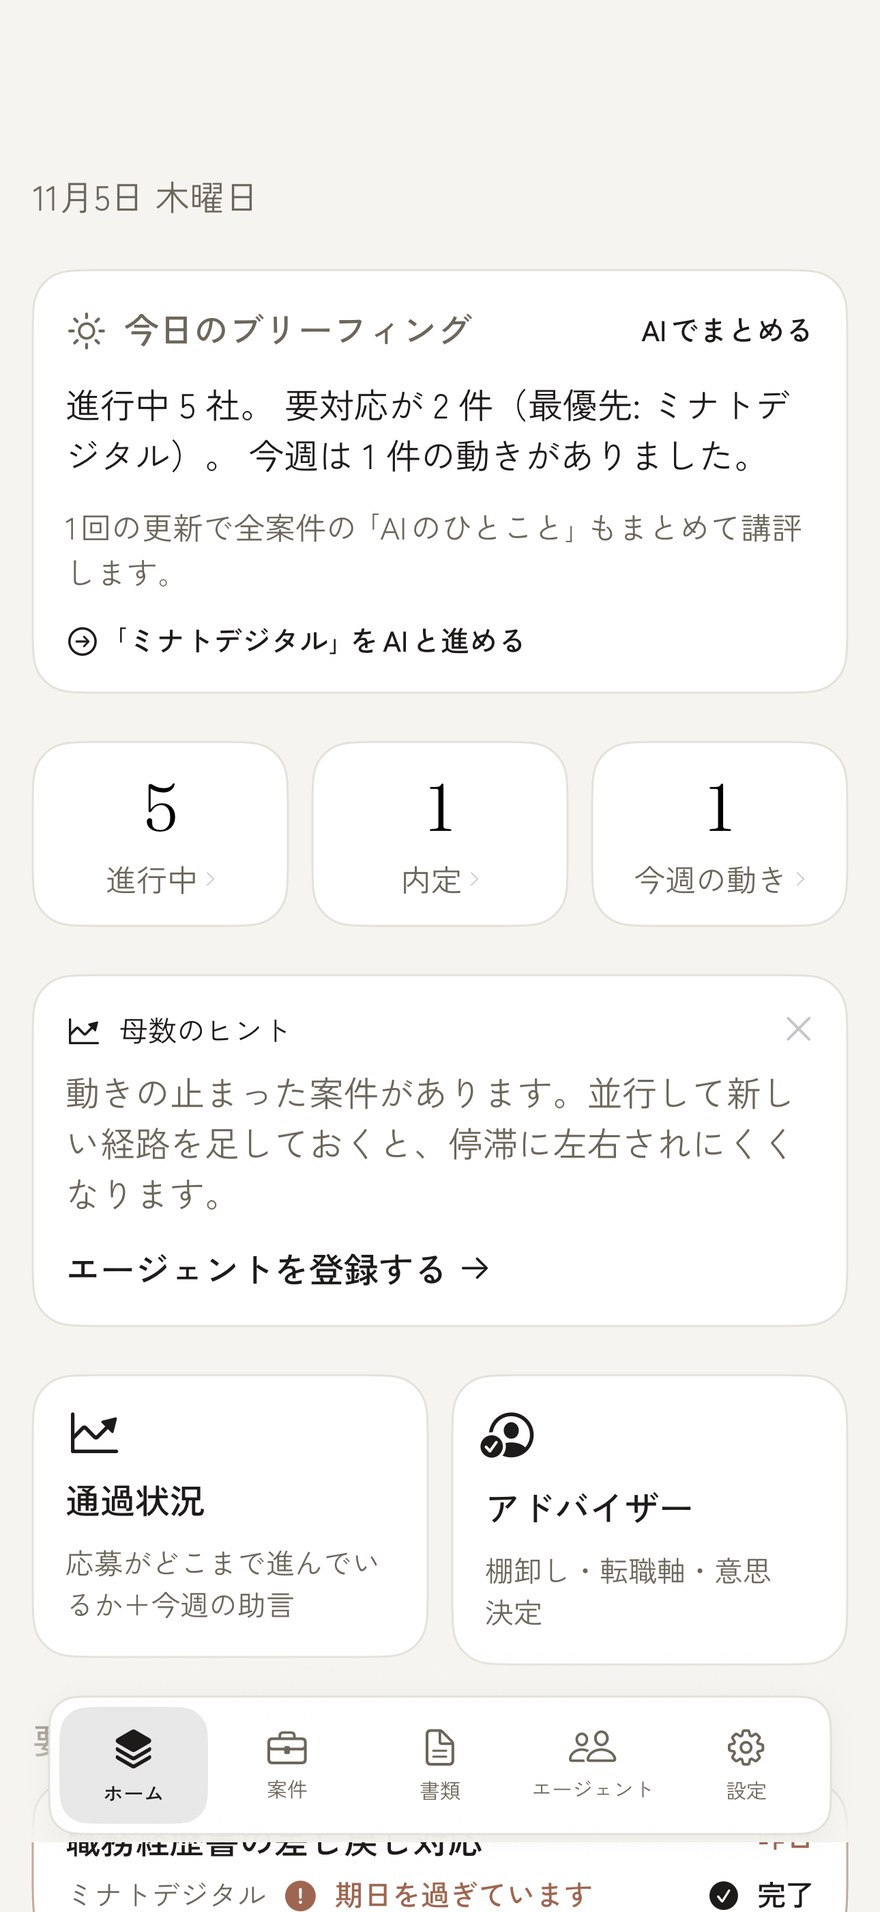
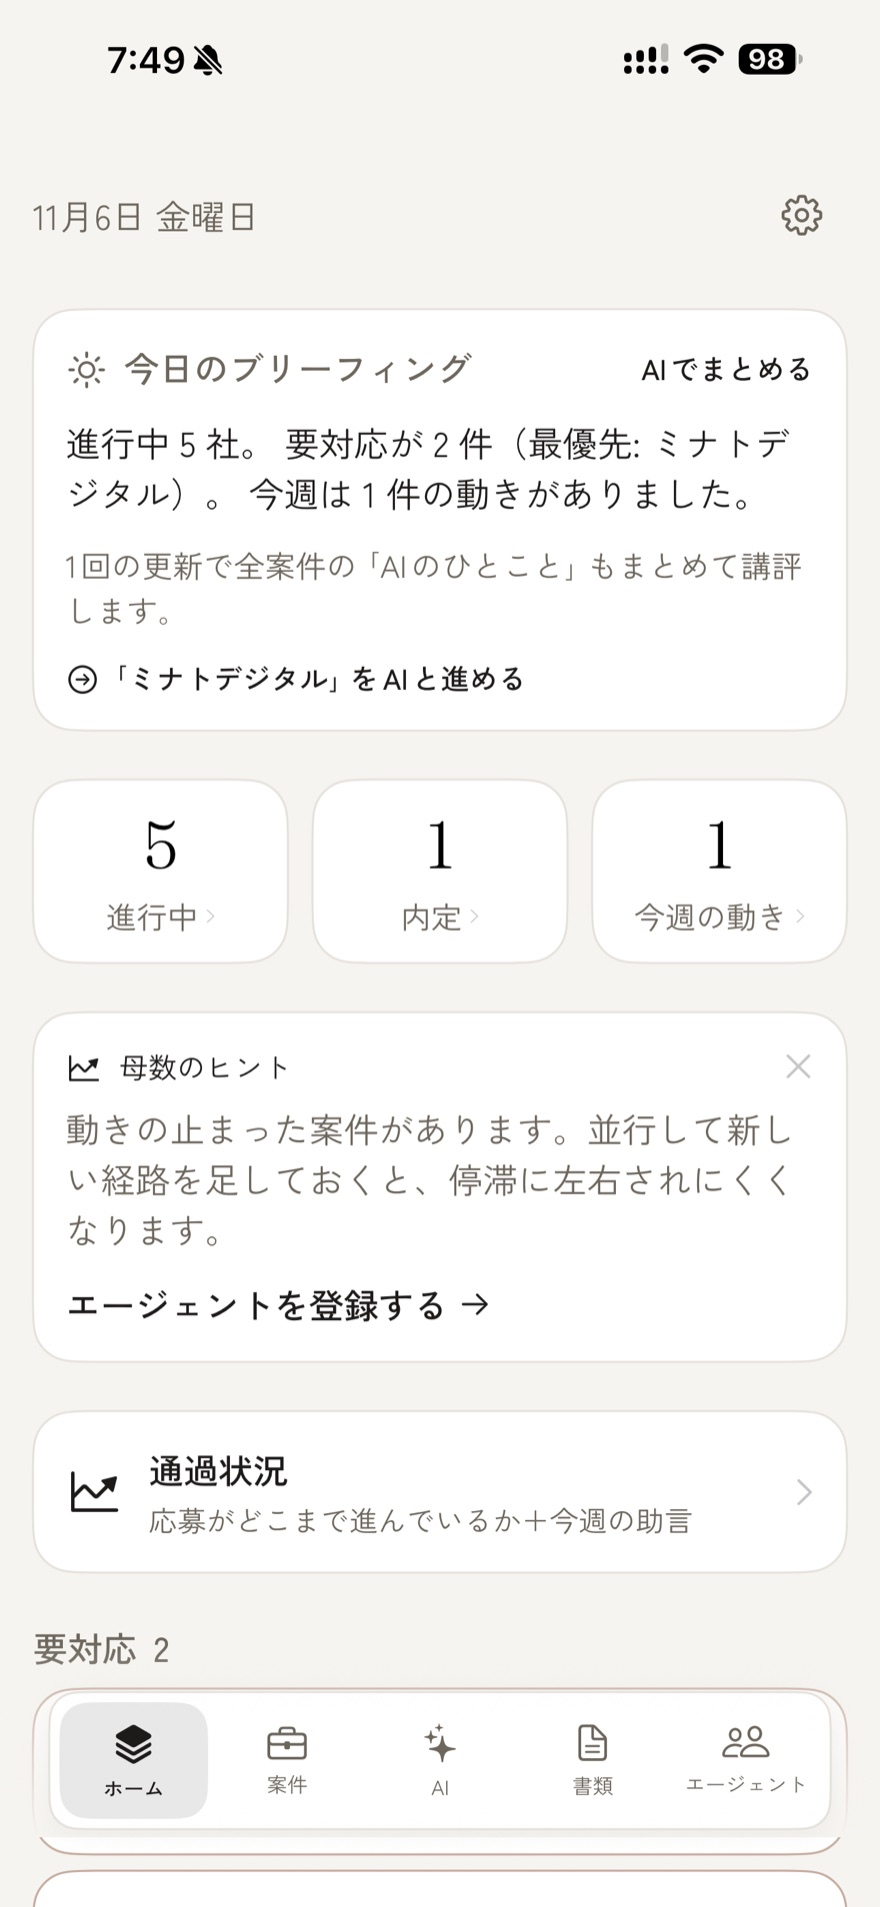
Glidwell: 画面を 1.7.1（AI タブ）に差し替え・AI の説明を段階別の案内に更新

diff --git a/glidwell.html b/glidwell.html
@@ -93,23 +93,23 @@
       <div class="carousel">
         <div class="carousel-track">
           <div class="cslide">
-            <figure class="cslide-solo"><img src="./assets/screens/glidwell-v2-home.jpg" alt="Glidwell ホーム" width="880" height="1912" loading="lazy" decoding="async"></figure>
+            <figure class="cslide-solo"><img src="./assets/screens/glidwell-v2-home.jpg" alt="Glidwell ホーム" width="880" height="1907" loading="lazy" decoding="async"></figure>
             <div class="cslide-title">ホーム</div>
           </div>
           <div class="cslide">
-            <figure class="cslide-solo"><img src="./assets/screens/glidwell-v2-list.jpg" alt="Glidwell 案件一覧" width="880" height="1912" loading="lazy" decoding="async"></figure>
+            <figure class="cslide-solo"><img src="./assets/screens/glidwell-v2-list.jpg" alt="Glidwell 案件一覧" width="880" height="1907" loading="lazy" decoding="async"></figure>
             <div class="cslide-title">案件一覧</div>
           </div>
           <div class="cslide">
-            <figure class="cslide-solo"><img src="./assets/screens/glidwell-v2-detail.jpg" alt="Glidwell 案件詳細" width="880" height="1912" loading="lazy" decoding="async"></figure>
+            <figure class="cslide-solo"><img src="./assets/screens/glidwell-v2-detail.jpg" alt="Glidwell 案件詳細" width="880" height="1907" loading="lazy" decoding="async"></figure>
             <div class="cslide-title">案件詳細</div>
           </div>
           <div class="cslide">
-            <figure class="cslide-solo"><img src="./assets/screens/glidwell-v2-documents.jpg" alt="Glidwell 書類" width="880" height="1912" loading="lazy" decoding="async"></figure>
+            <figure class="cslide-solo"><img src="./assets/screens/glidwell-v2-documents.jpg" alt="Glidwell 書類" width="880" height="1907" loading="lazy" decoding="async"></figure>
             <div class="cslide-title">書類</div>
           </div>
           <div class="cslide">
-            <figure class="cslide-solo"><img src="./assets/screens/glidwell-v2-agents.jpg" alt="Glidwell エージェント" width="880" height="1912" loading="lazy" decoding="async"></figure>
+            <figure class="cslide-solo"><img src="./assets/screens/glidwell-v2-agents.jpg" alt="Glidwell エージェント" width="880" height="1907" loading="lazy" decoding="async"></figure>
             <div class="cslide-title">エージェント</div>
           </div>
           <div class="cslide">
@@ -117,8 +117,8 @@
             <div class="cslide-title">AI 模擬面接</div>
           </div>
           <div class="cslide">
-            <figure class="cslide-solo"><img src="./assets/screens/glidwell-v2-ai.jpg" alt="Glidwell AI アシスタント" width="880" height="1912" loading="lazy" decoding="async"></figure>
-            <div class="cslide-title">AI アシスタント</div>
+            <figure class="cslide-solo"><img src="./assets/screens/glidwell-v2-ai.jpg" alt="Glidwell AI タブ" width="880" height="1907" loading="lazy" decoding="async"></figure>
+            <div class="cslide-title">AI タブ</div>
           </div>
         </div>
         <button class="carousel-btn carousel-prev" aria-label="前の画面">‹</button>
@@ -135,7 +135,7 @@
       <div class="section-label">画面ごとの使い方</div>
       <div class="story-list">
         <div class="story-row">
-          <img class="story-shot" src="./assets/screens/glidwell-v2-home.jpg" alt="Glidwell ホームの画面" width="880" height="1912" loading="lazy" decoding="async">
+          <img class="story-shot" src="./assets/screens/glidwell-v2-home.jpg" alt="Glidwell ホームの画面" width="880" height="1907" loading="lazy" decoding="async">
           <div class="story-text">
             <div class="story-kicker">ホーム</div>
             <h2>静かな1行から、一日が始まる。</h2>
@@ -144,7 +144,7 @@
           </div>
         </div>
         <div class="story-row alt">
-          <img class="story-shot" src="./assets/screens/glidwell-v2-list.jpg" alt="Glidwell 案件一覧の画面" width="880" height="1912" loading="lazy" decoding="async">
+          <img class="story-shot" src="./assets/screens/glidwell-v2-list.jpg" alt="Glidwell 案件一覧の画面" width="880" height="1907" loading="lazy" decoding="async">
           <div class="story-text">
             <div class="story-kicker">案件一覧</div>
             <h2>すべての選考を、一枚に並べる。</h2>
@@ -153,7 +153,7 @@
           </div>
         </div>
         <div class="story-row">
-          <img class="story-shot" src="./assets/screens/glidwell-v2-detail.jpg" alt="Glidwell 案件詳細の画面" width="880" height="1912" loading="lazy" decoding="async">
+          <img class="story-shot" src="./assets/screens/glidwell-v2-detail.jpg" alt="Glidwell 案件詳細の画面" width="880" height="1907" loading="lazy" decoding="async">
           <div class="story-text">
             <div class="story-kicker">案件詳細</div>
             <h2>次の一手と、ボールの所在。</h2>
@@ -162,7 +162,7 @@
           </div>
         </div>
         <div class="story-row alt">
-          <img class="story-shot" src="./assets/screens/glidwell-v2-documents.jpg" alt="Glidwell 書類の画面" width="880" height="1912" loading="lazy" decoding="async">
+          <img class="story-shot" src="./assets/screens/glidwell-v2-documents.jpg" alt="Glidwell 書類の画面" width="880" height="1907" loading="lazy" decoding="async">
           <div class="story-text">
             <div class="story-kicker">書類</div>
             <h2>書類を、案件に紐づけて。</h2>
@@ -171,7 +171,7 @@
           </div>
         </div>
         <div class="story-row">
-          <img class="story-shot" src="./assets/screens/glidwell-v2-agents.jpg" alt="Glidwell エージェントの画面" width="880" height="1912" loading="lazy" decoding="async">
+          <img class="story-shot" src="./assets/screens/glidwell-v2-agents.jpg" alt="Glidwell エージェントの画面" width="880" height="1907" loading="lazy" decoding="async">
           <div class="story-text">
             <div class="story-kicker">エージェント</div>
             <h2>エージェント別に、案件を束ねる。</h2>
@@ -188,11 +188,11 @@
           </div>
         </div>
         <div class="story-row">
-          <img class="story-shot" src="./assets/screens/glidwell-v2-ai.jpg" alt="Glidwell AI アシスタントの画面" width="880" height="1912" loading="lazy" decoding="async">
+          <img class="story-shot" src="./assets/screens/glidwell-v2-ai.jpg" alt="Glidwell AI タブの画面" width="880" height="1907" loading="lazy" decoding="async">
           <div class="story-text">
-            <div class="story-kicker">AI アシスタント</div>
-            <h2>迷ったときの相談相手は、案件の中に。</h2>
-            <p>各案件から AI アシスタントを開くと、「状況サマリー」「次の一手の提案」「見送り分析」をすぐに。いまの状況を読み解き、何から動くべきかを言葉にしてくれます。</p>
+            <div class="story-kicker">AI タブ</div>
+            <h2>迷ったときは、AI タブを開くだけ。</h2>
+            <p>進行中の案件が並び、選考の段階に合わせて「次にやること」を示します。書類選考なら適合診断、面接前なら模擬面接、内定なら年収交渉の準備。キャリアの棚卸しや転職の軸の整理も、同じタブから始められます。</p>
             <p>面接対策も充実しています。求人票と職務経歴書を突き合わせる<strong style="color:var(--ink)">適合診断</strong>（強み・ギャップ・面接対策）、この案件の<strong style="color:var(--ink)">想定質問</strong>、<strong style="color:var(--ink)">逆質問</strong>の準備、そして<strong style="color:var(--ink)">模擬面接</strong>——本番さながらに練習し、複数の観点でフィードバックまで返します。</p>
             <p>短い処理は端末の中で、重い分析は Apple の Private Cloud Compute で処理します。送る前に企業名・氏名・連絡先は自動で<strong style="color:var(--ink)">伏字</strong>に置き換え、送信内容も実行前に確認できます。</p>
           </div>

diff --git a/journal/job-change-agent-management.html b/journal/job-change-agent-management.html
@@ -93,7 +93,7 @@
     <p>突き詰めると、選考管理に本当に必要なのは次の3つだけだった。<strong>いまどのフェーズか</strong>、<strong>いま誰の番か</strong>、<strong>次の一手と、その期日</strong>。これが一画面で見渡せて、期日が近いものを通知してくれれば、放置は防げる。欲しい道具が無かったので、自分で作ることにした。それが Glidwell だ。</p>
 
     <figure class="article-fig">
-      <img src="/assets/screens/glidwell-v2-home.jpg" alt="Glidwell のホーム画面（今日対応したい案件のまとめ）" width="880" height="1912" loading="lazy">
+      <img src="/assets/screens/glidwell-v2-home.jpg" alt="Glidwell のホーム画面（今日対応したい案件のまとめ）" width="880" height="1907" loading="lazy">
       <figcaption>朝ひらくと、今日対応すべき案件がまとまっている。</figcaption>
     </figure>
 
@@ -107,7 +107,7 @@
     </ul>
 
     <figure class="article-fig">
-      <img src="/assets/screens/glidwell-v2-detail.jpg" alt="Glidwell の案件詳細（次の一手とボールの所在）" width="880" height="1912" loading="lazy">
+      <img src="/assets/screens/glidwell-v2-detail.jpg" alt="Glidwell の案件詳細（次の一手とボールの所在）" width="880" height="1907" loading="lazy">
       <figcaption>「次の一手」と「いま誰の番か」を、案件ごとに。</figcaption>
     </figure>
 
@@ -126,7 +126,7 @@
     <p class="jr-appcard-price">選考管理・通知・書類・バックアップは無料。AI アシスタントはスタンダード（月 ¥980）／プロ（月 ¥2,980）の月間クレジット内で使えます。</p>
     <div class="jr-appcard-actions"><a class="btn btn-primary" href="https://apps.apple.com/jp/app/glidwell/id6785211683" rel="noopener">App Store で入手</a><a class="btn btn-ghost" href="/glidwell.html">製品ページを見る</a></div>
   </div>
-  <div class="jr-appcard-shots"><span><img src="/assets/screens/glidwell-v2-home.jpg" alt="Glidwell のホーム画面" width="880" height="1912" loading="lazy"></span><span><img src="/assets/screens/glidwell-v2-detail.jpg" alt="Glidwell の案件詳細" width="880" height="1912" loading="lazy"></span></div>
+  <div class="jr-appcard-shots"><span><img src="/assets/screens/glidwell-v2-home.jpg" alt="Glidwell のホーム画面" width="880" height="1907" loading="lazy"></span><span><img src="/assets/screens/glidwell-v2-detail.jpg" alt="Glidwell の案件詳細" width="880" height="1907" loading="lazy"></span></div>
 </aside>
 
 <div class="jr-faq" id="faq"><h2 class="jr-h2">よくある質問</h2><div class="faq"><details><summary>転職エージェントを複数使うと、何が困りますか？</summary><p>主に3つです。窓口がバラバラ（メール・電話・各社のマイページ）で情報が散る。「次に動くのは自分か、エージェントか、企業か」が案件ごとに違う。面接の期日、書類の提出、お礼の連絡といった細かいタスクが各社にまたがる。見落としは、そのまま機会損失になります。</p></details><details><summary>転職の選考管理は、スプレッドシートでもできますか？</summary><p>できますが、筆者は続きませんでした。スマホで開いて編集するのが面倒で、「いま誰の番か」を色やメモで管理してもひと目では分からず、通知が出ないのでこちらから見に行かないと忘れます。</p></details><details><summary>選考管理に本当に必要な情報は何ですか？</summary><p>いまどのフェーズか、いま誰の番か、次の一手とその期日の3つです。これが一画面で見渡せて、期日が近いものを通知してくれれば、放置は防げます。</p></details><details><summary>Glidwell は無料で使えますか？</summary><p>選考管理・通知・書類・バックアップは無料で使えます。AI 機能は有料プランの機能です。iPhone（iOS）専用で、いまのところ Android には対応していません。</p></details></div></div>

diff --git a/journal/mensetsu-nittei-senko-shinchoku-kanri.html b/journal/mensetsu-nittei-senko-shinchoku-kanri.html
@@ -96,7 +96,7 @@
     <p class="jr-appcard-price">選考管理・通知・書類・バックアップは無料。AI アシスタントはスタンダード（月 ¥980）／プロ（月 ¥2,980）の月間クレジット内で使えます。</p>
     <div class="jr-appcard-actions"><a class="btn btn-primary" href="https://apps.apple.com/jp/app/glidwell/id6785211683" rel="noopener">App Store で入手</a><a class="btn btn-ghost" href="/glidwell.html">製品ページを見る</a></div>
   </div>
-  <div class="jr-appcard-shots"><span><img src="/assets/screens/glidwell-v2-home.jpg" alt="Glidwell のホーム画面" width="880" height="1912" loading="lazy"></span><span><img src="/assets/screens/glidwell-v2-detail.jpg" alt="Glidwell の案件詳細" width="880" height="1912" loading="lazy"></span></div>
+  <div class="jr-appcard-shots"><span><img src="/assets/screens/glidwell-v2-home.jpg" alt="Glidwell のホーム画面" width="880" height="1907" loading="lazy"></span><span><img src="/assets/screens/glidwell-v2-detail.jpg" alt="Glidwell の案件詳細" width="880" height="1907" loading="lazy"></span></div>
 </aside>
 
 <div class="jr-faq" id="faq"><h2 class="jr-h2">よくある質問</h2><div class="faq"><details><summary>複数社の面接日程は、どう管理するのがいいですか？</summary><p>応募企業ごとに面接日程を登録し、次の面接が近い順に並べて見ます。メモや手帳、メールが分散すると、次の面接がいつかを都度確認し直す手間が生まれるので、一箇所に集約するのがおすすめです。</p></details><details><summary>選考の進捗管理では、何を記録しますか？</summary><p>書類選考・一次面接・最終面接といった選考フェーズを、企業ごとに記録します。エージェント経由の応募が複数社にまたがっても、どの企業がどの段階にあるかをステータスで確認できます。Glidwell では手作業での更新のみで、自動追跡は行いません。</p></details><details><summary>面接日程や選考状況のデータは、外部に送られますか？</summary><p>記録は端末の中だけに保存されます。クラウド同期や外部サーバーへの送信を前提にせず、広告表示や外部への行動データ送信もありません。</p></details></div></div>
